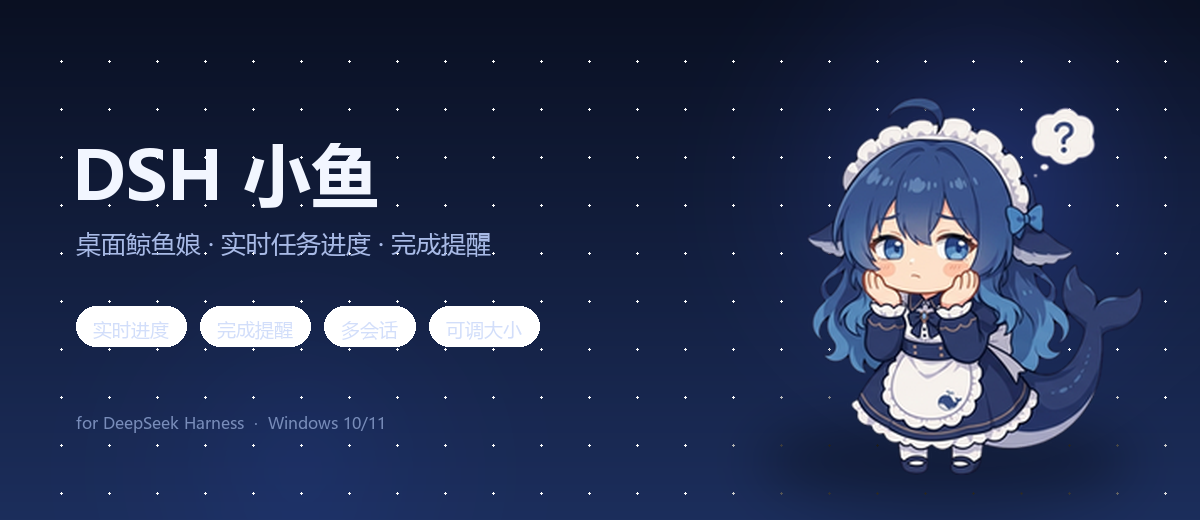
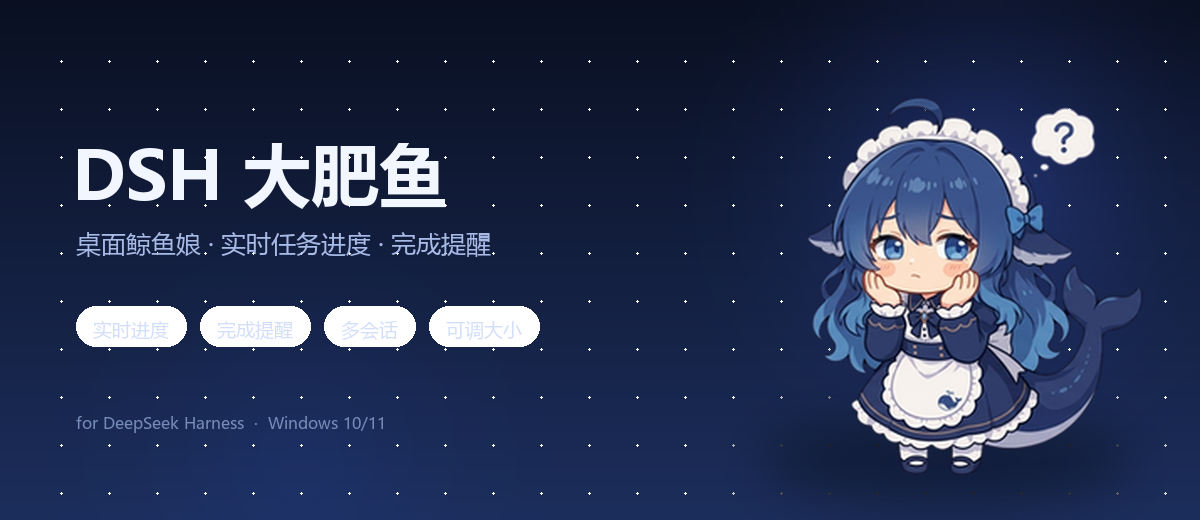
refactor: rename the pet to 大肥鱼
- update window title, tray tooltip, menus, notifications and dialogs
- update installer/plugin README strings and the banner artwork

Changed region(s): [[0.185, 0.2769, 0.37, 0.4]]

diff --git a/bin/fish-ui.xaml b/bin/fish-ui.xaml
@@ -1,6 +1,6 @@
 <Window xmlns="http://schemas.microsoft.com/winfx/2006/xaml/presentation"
         xmlns:x="http://schemas.microsoft.com/winfx/2006/xaml"
-        Title="DSH 小鱼" Width="380" Height="432"
+        Title="DSH 大肥鱼" Width="380" Height="432"
         WindowStyle="None" AllowsTransparency="True" Background="Transparent"
         Topmost="True" ShowInTaskbar="False" ResizeMode="NoResize"
         SnapsToDevicePixels="True" UseLayoutRounding="True"
@@ -180,7 +180,7 @@
             HorizontalAlignment="Center" VerticalAlignment="Bottom" Margin="0,0,0,-10"/>
     </Grid>
 
-    <!-- 小鱼 -->
+    <!-- 大肥鱼 -->
     <Grid x:Name="FishHost" Width="260" Height="210" HorizontalAlignment="Center" VerticalAlignment="Bottom">
       <Grid.RenderTransform>
         <TransformGroup>

diff --git a/bin/chibi-ui.xaml b/bin/chibi-ui.xaml
@@ -1,6 +1,6 @@
 <Window xmlns="http://schemas.microsoft.com/winfx/2006/xaml/presentation"
         xmlns:x="http://schemas.microsoft.com/winfx/2006/xaml"
-        Title="DSH 小鱼" Width="400" Height="470"
+        Title="DSH 大肥鱼" Width="400" Height="470"
         WindowStyle="None" AllowsTransparency="True" Background="Transparent"
         Topmost="True" ShowInTaskbar="False" ResizeMode="NoResize"
         SnapsToDevicePixels="True" UseLayoutRounding="True"

diff --git a/bin/whale-ui.xaml b/bin/whale-ui.xaml
@@ -1,6 +1,6 @@
 <Window xmlns="http://schemas.microsoft.com/winfx/2006/xaml/presentation"
         xmlns:x="http://schemas.microsoft.com/winfx/2006/xaml"
-        Title="DSH 小鱼" Width="400" Height="570"
+        Title="DSH 大肥鱼" Width="400" Height="570"
         WindowStyle="None" AllowsTransparency="True" Background="Transparent"
         Topmost="True" ShowInTaskbar="False" ResizeMode="NoResize"
         SnapsToDevicePixels="True" UseLayoutRounding="True"

diff --git a/README.md b/README.md
@@ -1,6 +1,6 @@
-<div align="center">
-  <img src="assets/screenshots/banner.png" alt="DSH 小鱼" width="100%">
-  <h1>DSH 小鱼 · 桌面鲸鱼娘进度挂件</h1>
+<div align="center">
+  <img src="assets/screenshots/banner.png" alt="DSH 大肥鱼" width="100%">
+  <h1>DSH 大肥鱼 · 桌面鲸鱼娘进度挂件</h1>
   <p>常驻桌面的 Q 版 DeepSeek「鲸鱼娘」，实时显示 DeepSeek Harness 的任务进度；任务完成时她会跳起来、放星光、响一声并弹 Windows 通知。</p>
   <p>
     <img alt="platform" src="https://img.shields.io/badge/platform-Windows%2010%2F11-4D6BFE">
@@ -192,7 +192,7 @@ DSH 会话日志 (~/.dsh/sessions/**/session.v4.jsonl.zstd)
 
 - **不更新进度**：查看 `logs/core.log` 是否有新的 `启动 fish-core`；或先 `stop-fish.cmd` 再 `start-fish.cmd`。
 - **看不到她**：找任务栏托盘里的鱼图标；或重新运行 `start-fish.cmd`。
-- **托盘图标在 `^` 溢出区里**：Windows 11 默认把新图标收进溢出区，图标本身是正常注册的。右键小鱼 → **把图标固定到任务栏…**，在打开的设置里进入 **个性化 → 任务栏 → 其他系统托盘图标**，找到带蓝色鲸鱼娘图标的 **Windows PowerShell**（挂件跑在 powershell.exe 下），把它打开即可常驻右下角。
+- **托盘图标在 `^` 溢出区里**：Windows 11 默认把新图标收进溢出区，图标本身是正常注册的。右键大肥鱼 → **把图标固定到任务栏…**，在打开的设置里进入 **个性化 → 任务栏 → 其他系统托盘图标**，找到带蓝色鲸鱼娘图标的 **Windows PowerShell**（挂件跑在 powershell.exe 下），把它打开即可常驻右下角。
 - **插件没生效**：DSH 只在启动时读配置，装完/改完需要重启一次。
 - **窗口位置跑偏**：右键 → 重置位置，或删除 `ui.json` 后重启。
 - **想换全身立绘**：把图片放到 `assets/whale.png`（透明背景，竖图），把 `config.json` 的 `mascot` 改成 `whale` 后重启。该图片不随仓库分发。
